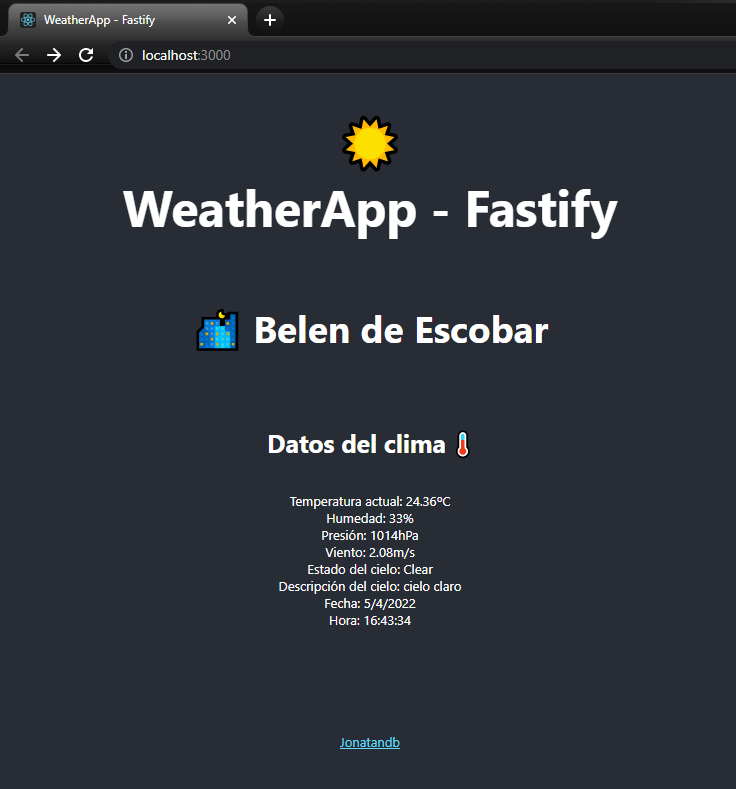
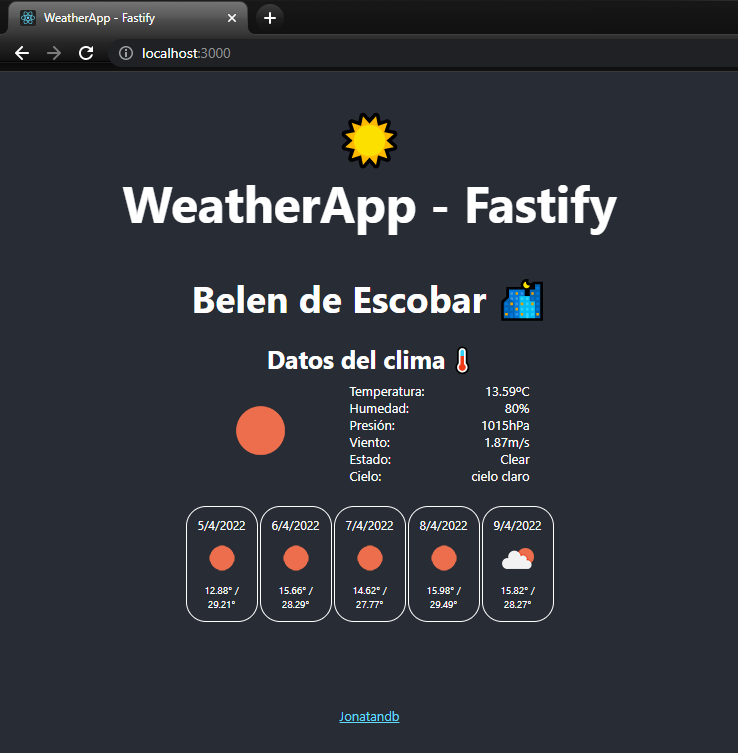
docs: :memo: Readme and screenshots also updated

diff --git a/frontend/README.md b/frontend/README.md
@@ -41,8 +41,6 @@
 
 ### Pendientes/Bugs
 
-- Mejorar UI en general para aprovechar mejor el espacio disponible.
-- Crear componente que muestra el pronóstico para los próximos cinco días.
 - Crear compoenentes que mostrarán las ciudades disponibles para seleccionar y obtener el pronóstico.
 - Reemplazar logos _.png_ y _favicon.ico_ por nuevos y originales.
 
